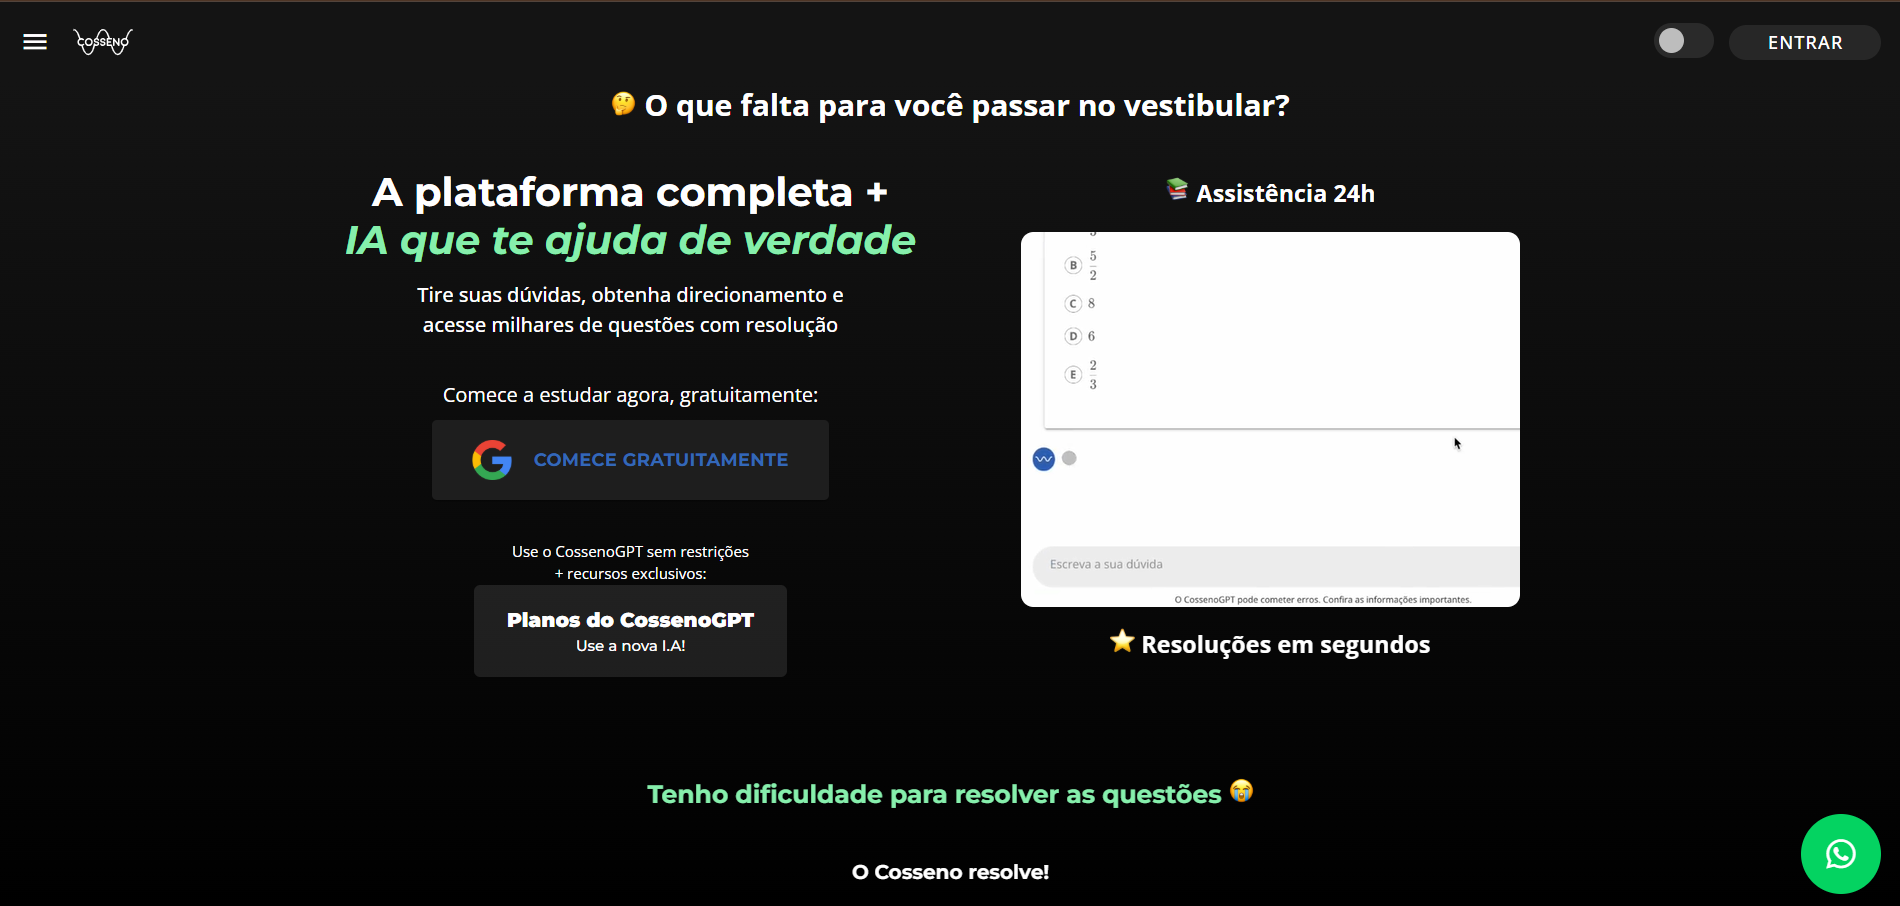
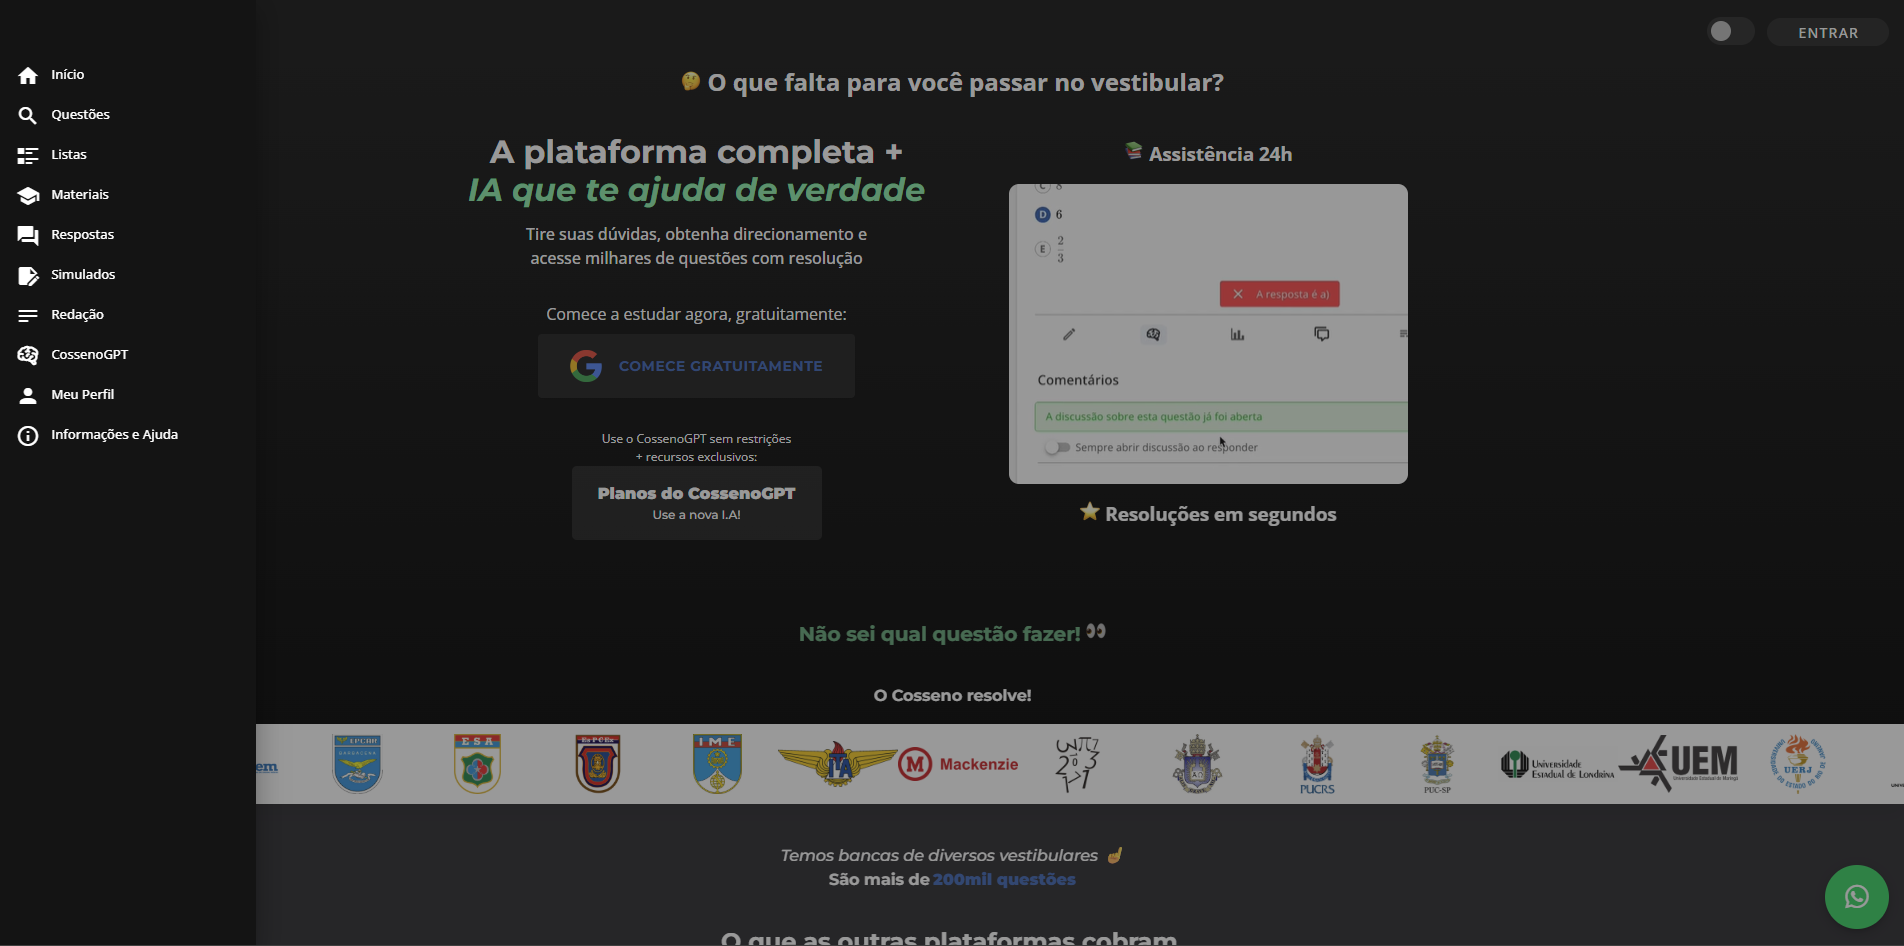
mudanças na hero do cosseno | adição de texto e link nas imagens dos parceiros

diff --git a/index.html b/index.html
@@ -337,16 +337,19 @@
         </section>
 
         <section class="hero-parceiro" data-parceiro="cosseno">
-            <img src="Logo_parceiros/cosseno_logo.jpeg" alt="Cosseno" class="logo-parceiros">
+            <img src="Logo_parceiros/cosseno_logo.jpeg" alt="Cosseno" class="logo-parceiros logo-cosseno" onclick="window.open('https://cosseno.com')">
+            <p class="hero-parceiro-text">Plataforma do cosseno</p>
         </section>
         <section class="hero-parceiro" data-parceiro="fenix">
-            <img src="Logo_parceiros/logofenix.png" alt="Fênix" class="logo-parceiros logo-fenix">
+            <img src="Logo_parceiros/logofenix.png" alt="Fênix" class="logo-parceiros logo-fenix" onclick="window.open('https://fenixconcursosmilitares.com.br/')">
+            <p class="hero-parceiro-text">Fênix Concursos Militares</p>
         </section>
         <section class="hero-parceiro" data-parceiro="japa">
-            <img src="Logo_parceiros/logo-japamath-v1.webp" alt="Japa Math" class="logo-parceiros logo-japa">
+            <img src="Logo_parceiros/logo-japamath-v1.webp" alt="Japa Math" class="logo-parceiros logo-japa" onclick="window.open('https://japamath.com.br/')">
         </section>
         <section class="hero-parceiro" data-parceiro="puppin">
-            <img src="Logo_parceiros/logo-puppin.png" alt="Japa Math" class="logo-parceiros">
+            <img src="Logo_parceiros/logo-puppin.png" alt="Thay Puppin" class="logo-parceiros" onclick="window.open('https://linktr.ee/thaylisepuppin')">
+            <p class="hero-parceiro-text">Mentoria de Redação, prof.Thay Puppin</p>
         </section>
 
     </main>
@@ -456,7 +459,7 @@
     <footer class="main-footer">
         <div class="footer-container">
             <div class="footer-brand">
-                <img src="images/LogoPlantnoHeader.png" alt="Logo Plantel de Dúvidas" class="footer-logo">
+                <img src="images/LogoPlantnoHeader.png" alt="Logo Plantel de Dúvidas" class="footer-logo" onclick="window.open('https://cosseno.com/')">
                 <p>Transformando a educação através da colaboração.</p>
             </div>
 

diff --git a/style.css b/style.css
@@ -445,23 +445,33 @@ body.dark-theme .text-info-in-inside {
   width: var(--logo-size);
   border-radius: var(--logo-radius);
   box-shadow: var(--shadow);
+  transition: var(--transition) !important;
+}
+
+.logo-parceiros:hover {
+  transform: translateY(-5px);
+  box-shadow: 0 15px 30px rgba(0, 0, 0, 0.2);
+  cursor: pointer;
 }
 
 .hero-parceiro[data-parceiro="cosseno"] {
   background-image: var(--gradient-overlay), url("fundo_parceiros/cosseno.png");
+  background-position: center 80px;
 }
 
 .hero-parceiro[data-parceiro="fenix"] {
   background-image: var(--gradient-overlay), url("fundo_parceiros/fênix.png");
+  background-position: center 100px;
 }
 
 .hero-parceiro[data-parceiro="japa"] {
   background-image: var(--gradient-overlay), url("fundo_parceiros/japa.png");
+  background-position: center 50px;
 }
 
 .hero-parceiro[data-parceiro="puppin"] {
   background-image: var(--gradient-overlay), url("fundo_parceiros/puppin.png");
-  background-position: center 25px;
+  background-position: center -25px;
 }
 
 .logo-japa {
@@ -472,6 +482,19 @@ body.dark-theme .text-info-in-inside {
 .logo-fenix {
   width: 250px;
   box-shadow: none;
+}
+
+.logo-cosseno {
+  width: 150px;
+}
+
+.hero-parceiro-text {
+  text-align: center;
+  margin: 10px;
+  font-size: 1.5em;
+  font-family: 'Pathway Gothic One', sans-serif;
+  text-shadow: var(--shadow);
+  color: white;
 }
 
 /* Responsividade para Celulares */
@@ -1030,7 +1053,7 @@ body.dark-theme .bottom-nav {
 }
 
 #dark-mode-toggle:hover {
-  transform: scale(1.1) rotate(15deg);
+  /*transform: scale(1.1) rotate(15deg);*/
   /* Leve inclinação ao passar o mouse */
   background: var(--primary-color);
   color: white;
